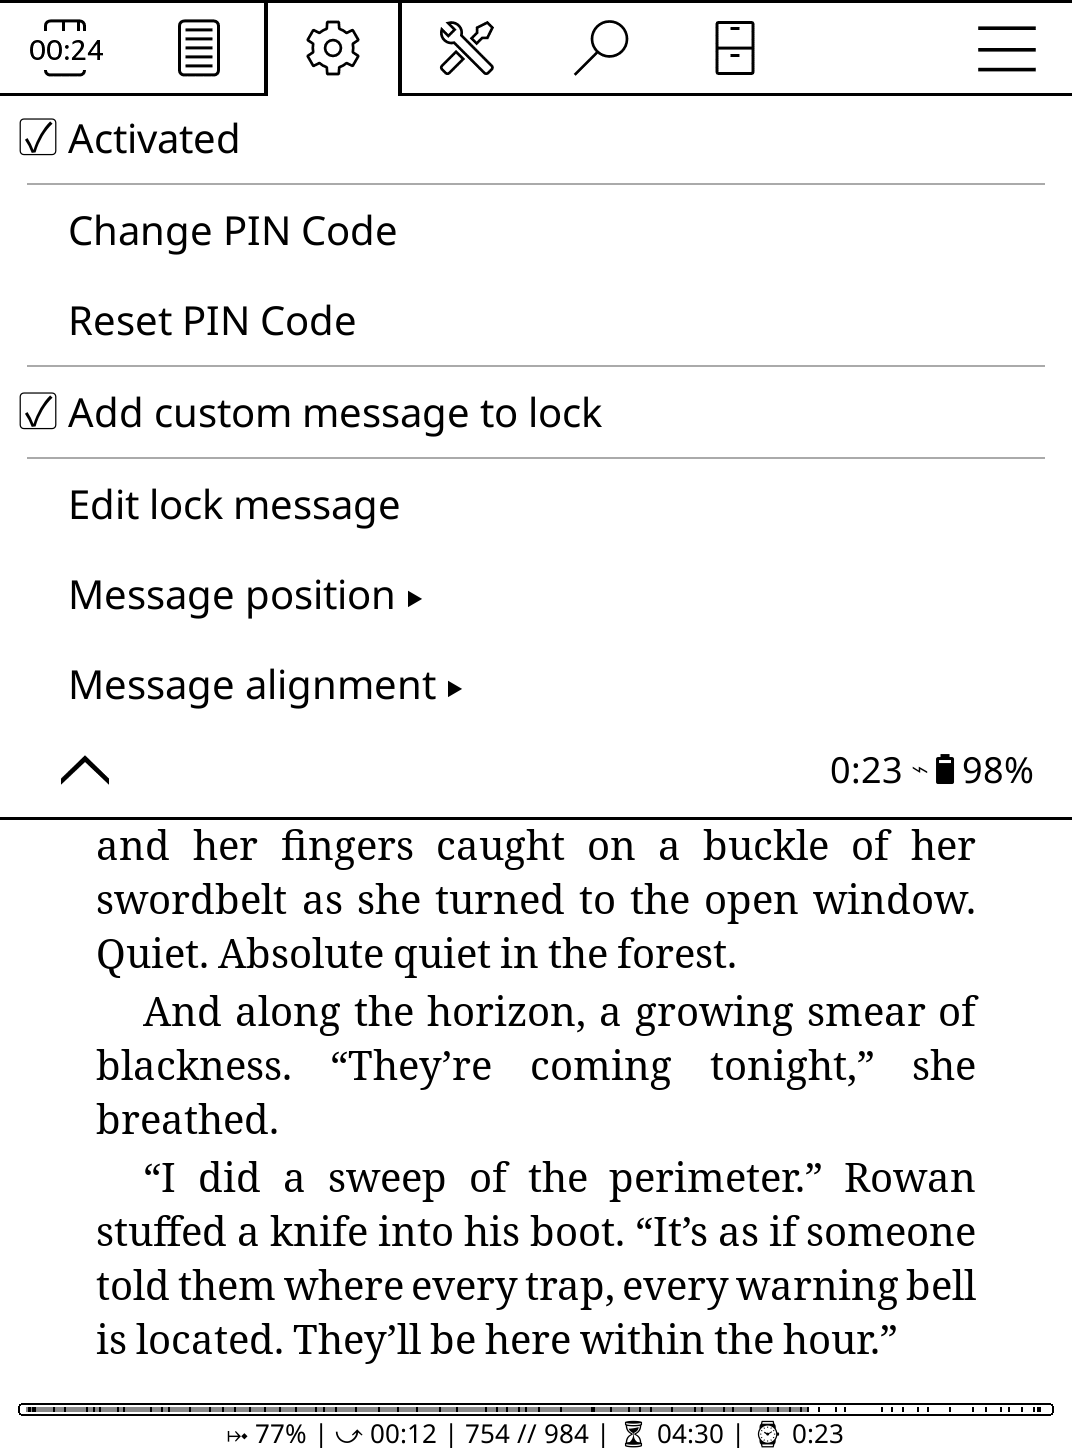
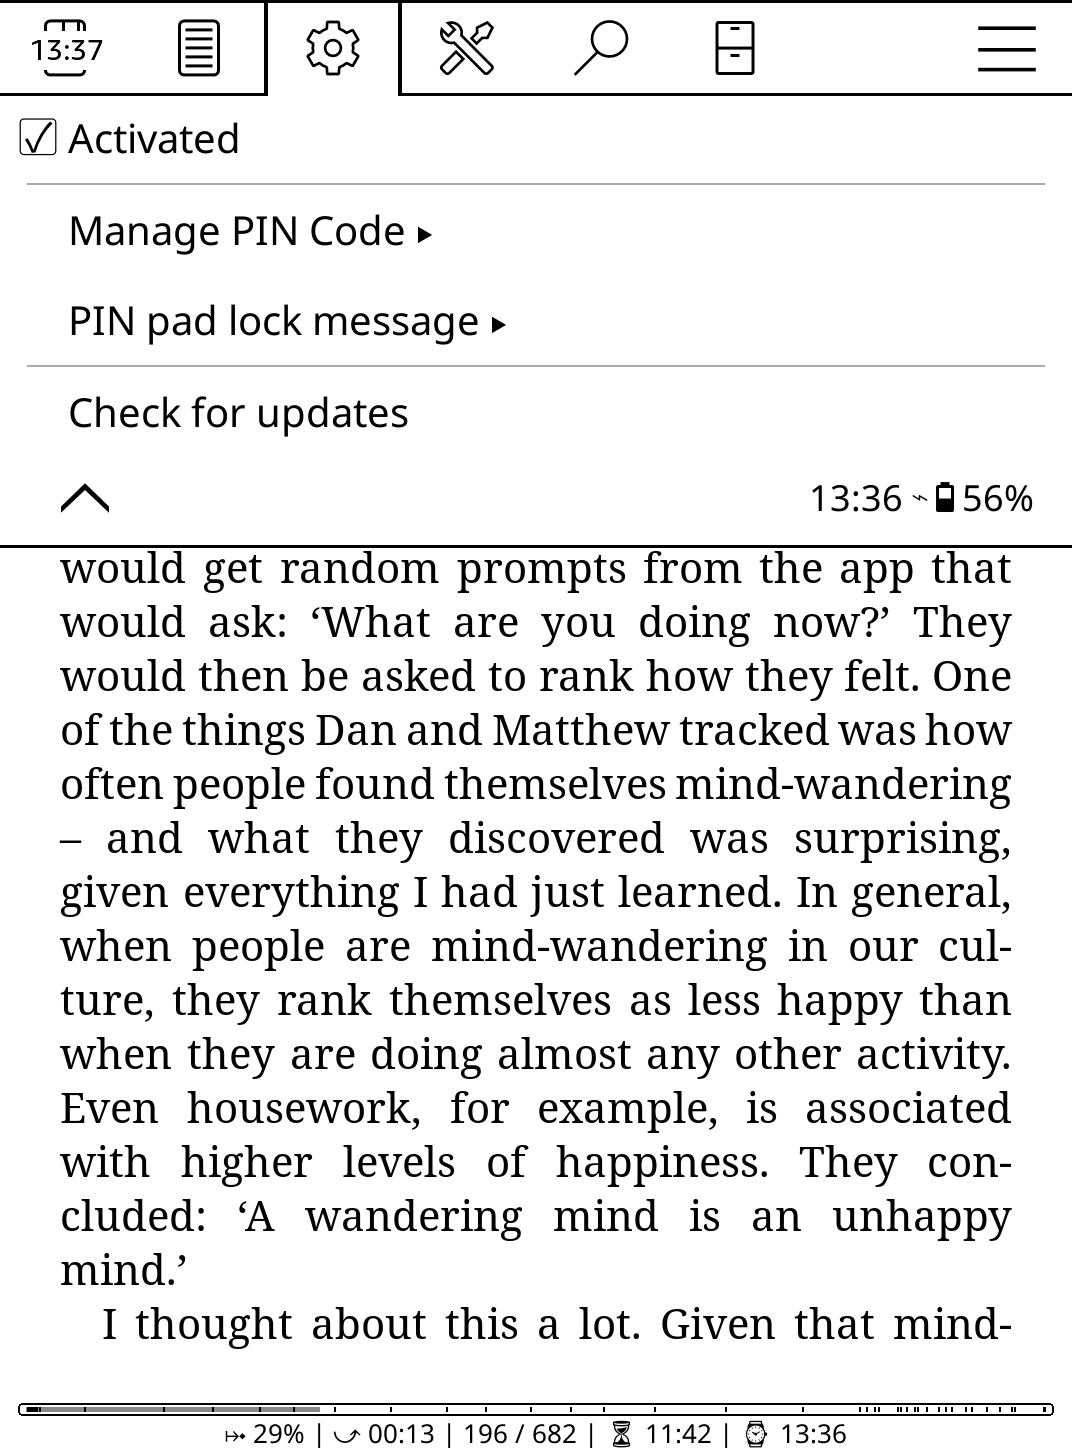
doc: Update ReadMe and screenshots

diff --git a/README.md b/README.md
@@ -19,6 +19,22 @@ The default code is "1234". You can also add a custom message to display with th
 
 **Note:** There's no limit to the number of digits your code may contain, but good luck if you forget your code (you'll have to dig into your memory or KOReader to find it back).
 
+## Features and Gestures
+
+* `Manage PIN Code`:
+  * `Change PIN Code` will allow you to change your code after entering your current one.
+  * `Reset PIN Code` will reset the code at `1234`.
+
+* `PIN pad lock message` allows you to manage the custom message you can add to the PIN Pad. This is optional.
+
+* `Cancel` button: a quick tap will delete a digit of the code you entered, a long hold will delete every digits.
+
+* You have three tries before the device is locked for 30 seconds and you can not interact with it.
+
+* The pad will appear based on the current screensaver setting you're using.
+
+* Check for updates directly from your device, without having to open GitHub. This feature needs the device to be connected to Internet.
+
 ## Future work
 
 * When launching KOReader (on a jailbroken kindle), PIN Pad does not appear right away, leaving the possibility to deactivate or reset the lock.
